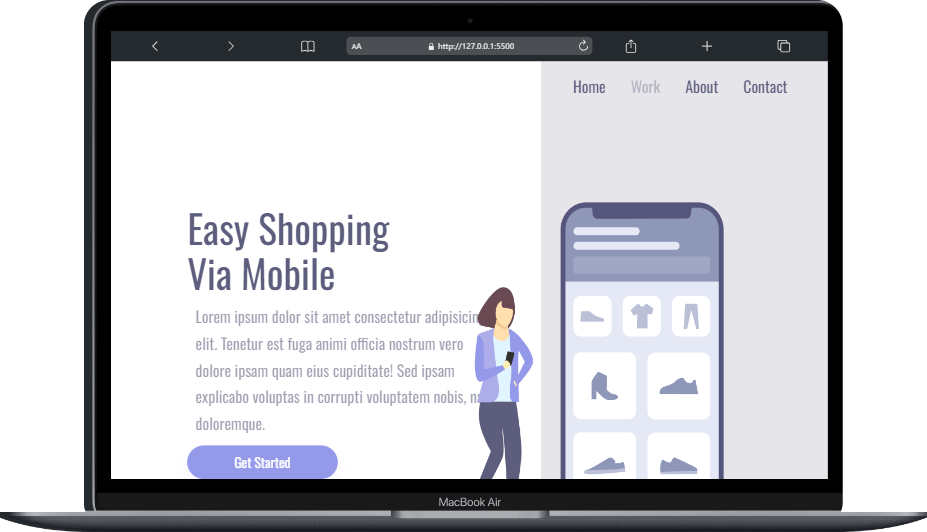
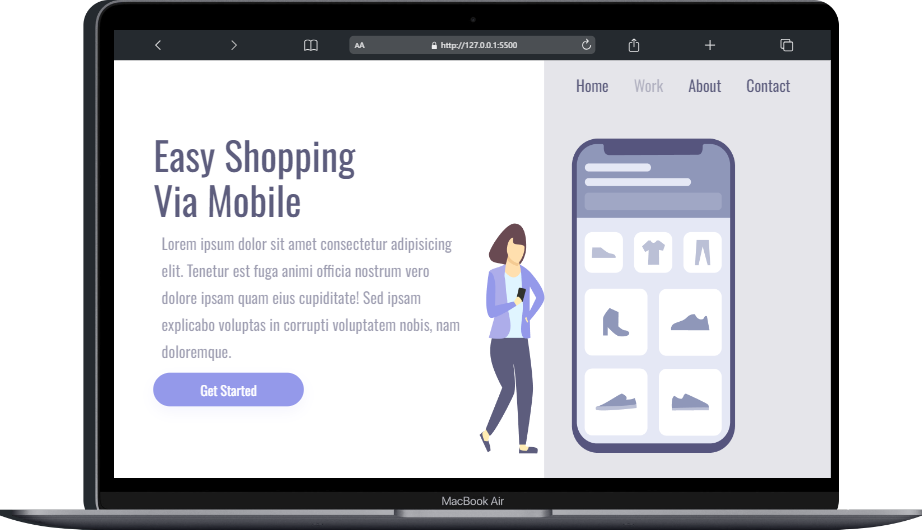
melhorias responsividades

diff --git a/style.css b/style.css
@@ -10,16 +10,18 @@
 }
 
 .wrapper {
-    height: 100vh; /*Altura*/
-    width: 100vw; /*Largura*/
+    height: 100vh;
+    /*Altura*/
+    width: 100vw;
+    /*Largura*/
 
 }
 
 .container-left {
     display: inline-block;
     width: 60%;
-    padding-left: 136px;
-    margin-top: 20%;
+    padding-left: 70px;
+    margin-top: 10%;
 
 }
 
@@ -33,8 +35,8 @@
 
 img {
     position: relative;
-    top: 25%;
-    right: 130px;
+    top: 10%;
+    right: 115px;
 
 }
 
@@ -50,7 +52,7 @@ p {
     opacity: .6;
     margin: 15px 15px;
     width: 540px;
-}  
+}
 
 button {
     width: 269px;
@@ -106,65 +108,87 @@ header {
 
 }
 
+
+@media screen and (max-width:1194px) {
+    .container-left {
+        padding-left: 60px;
+        margin-top: 10%;
+    }
+
+    img {
+        top: 15%;
+        width: 80%;
+        right:115px
+    }
+
+    header {
+        width: 500px;
+    }
+
+    h1, p, button {
+        width: 460px;
+    }
+}
+
 /*---------------------------------------------------------------------------------------------------------------*/
 
 @media screen and (max-width:900px) {
 
-.container-left {
-    width: 100%;
-    height: 50%;
-    padding: 0;
-    margin: 0;
+    .container-left {
+        width: 100%;
+        height: 50%;
+        padding: 0;
+        margin: 0;
 
-}
+    }
 
-.container-right {
-    display: block;
-    height: auto;
-    width: 100%;
-    position: static;
-    
-}
+    .container-right {
+        display: block;
+        height: auto;
+        width: 100%;
+        position: static;
 
-img {
-    position: static;
-    max-width: 60%;
-    margin: 50px 50px 0 50px
-}
+    }
 
-header {
-    display: none;
+    img {
+        position: static;
+        max-width: 70%;
+        margin: 50px 50px 0 50px
+    }
 
-}
+    header {
+        display: none;
 
-h1 {
-    font-size: 36px;
-    font-weight: 52px;
-    width: auto;
-    margin: 58px 50px 0 50px;
-    text-align: center;
-}
+    }
 
-p {
-    margin: 15px 40px;
-    width: auto;
-    text-align: center;
-    font-size: 14px;
-    line-height: 24px;
+    h1 {
+        font-size: 36px;
+        font-weight: 52px;
+        width: auto;
+        margin: 58px 50px 0 50px;
+        text-align: center;
+    }
 
-}
+    p {
+        margin: 15px 40px;
+        width: auto;
+        text-align: center;
+        font-size: 14px;
+        line-height: 24px;
 
-button {
-    margin: auto;
-    display: block;
-}
+    }
+
+    button {
+        margin: auto;
+        display: block;
+    }
 
 }
 
 /*---------------------------------------------------------------------------------------------------------------*/
 
 @media screen and (max-width:450px) {
-   
+
     .container-right {
         display: block;
         height: auto;
@@ -177,11 +201,6 @@ button {
         margin: auto;
         display: block;
         height: 60px;
-        
+
     }
 }
-
-
-
-
-
